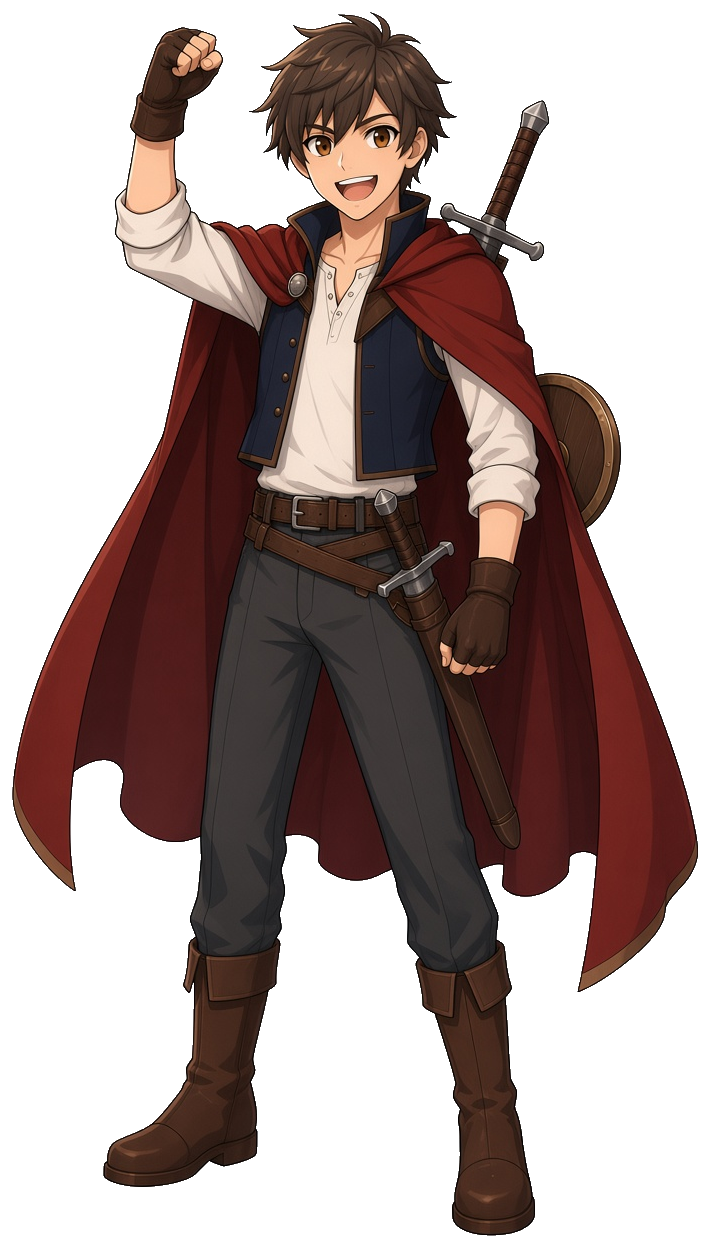
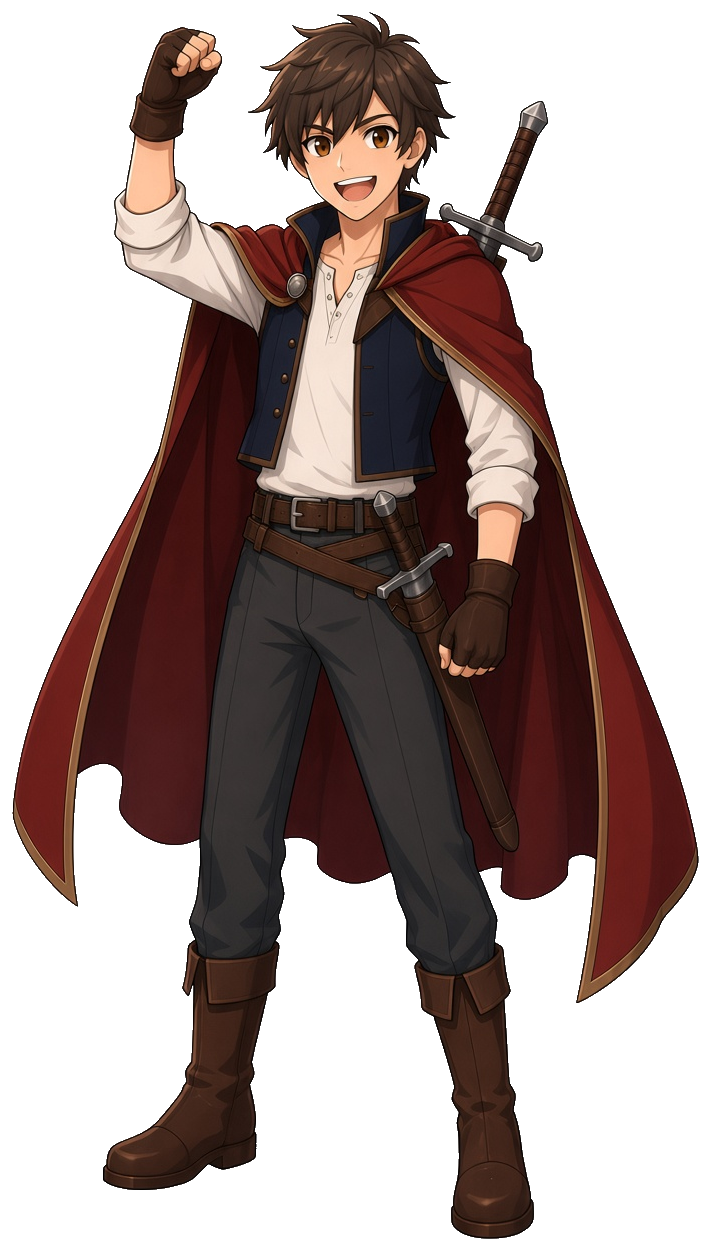
男の戦士の勝利ポーズから盾を外す

diff --git a/index.html b/index.html
@@ -4051,9 +4051,9 @@
               <figure><img class="cut-ref" src="job-front.png?v=5" alt="戦士の正面"><figcaption>正面</figcaption></figure>
               <figure><img class="cut-ref" src="hero-shoulder.png?v=22" alt="戦士の戦闘（ポケモンの画角）"><figcaption>戦闘（ポケモンの画角）</figcaption></figure>
               <figure><img class="cut-ref" src="warrior-defeat.png?v=3" alt="戦士の敗北"><figcaption>敗北</figcaption></figure>
-              <figure><img class="cut-ref" src="warrior-victory.png?v=2" alt="戦士の勝利"><figcaption>勝利</figcaption></figure>
+              <figure><img class="cut-ref" src="warrior-victory.png?v=3" alt="戦士の勝利"><figcaption>勝利</figcaption></figure>
             </div>
-            <p class="sheet-cap">向きごとに別の絵。正面は、ジョブの一枚絵を基準にした。大剣の鞘は左肩から。戦闘では背中を向け、目線は敵。左手の先は盾と体で隠す。敗北は剣が折れて絶望。</p>
+            <p class="sheet-cap">向きごとに別の絵。正面は、ジョブの一枚絵を基準にした。大剣の鞘は左肩から。戦闘では背中を向け、目線は敵。左手の先は盾と体で隠す。敗北は剣が折れて絶望。勝利は盾を持たない。</p>
             <h3>女の戦士</h3>
             <div class="ref-grid pose-grid">
               <figure><img class="cut-ref" src="girl-front.png?v=5" alt="女の戦士の正面"><figcaption>正面</figcaption></figure>
